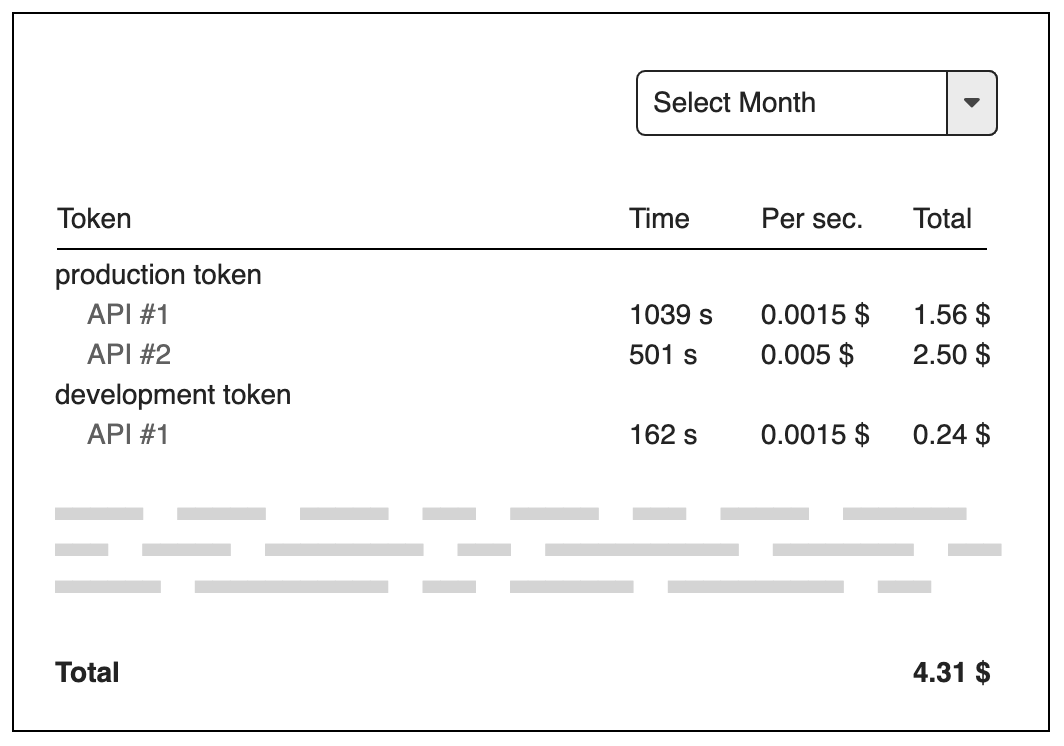
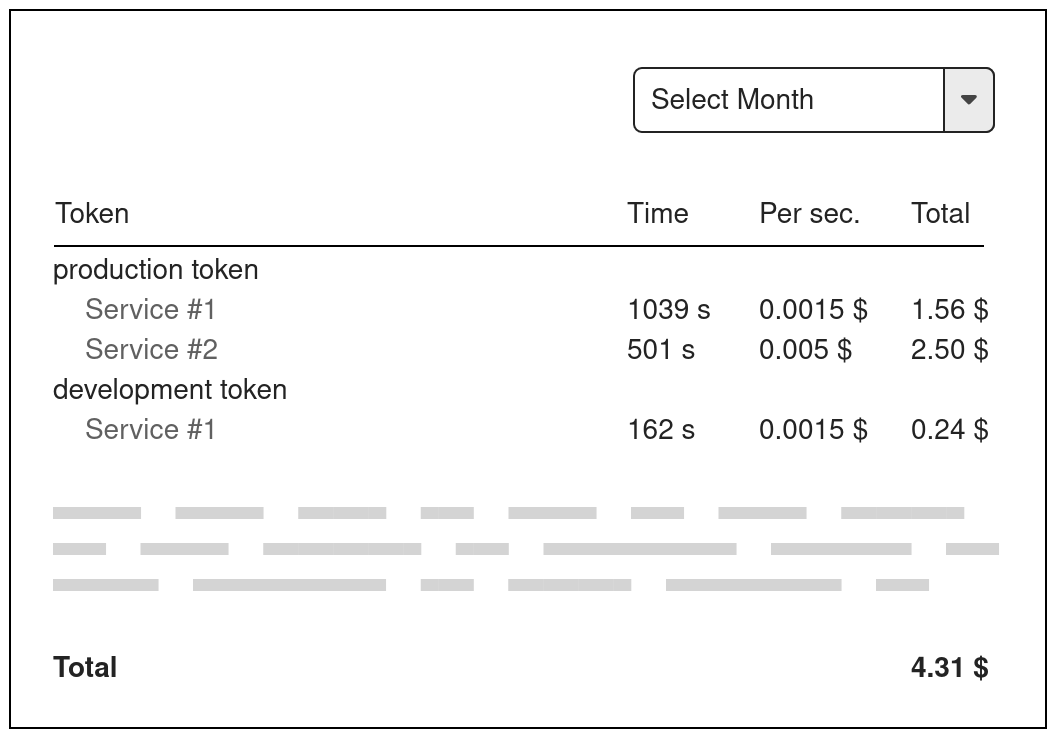
Implement pull request feedback

diff --git a/src/modules/module-b/description.md b/src/modules/module-b/description.md
@@ -1,6 +1,6 @@
 # Module B — Dynamic website with server-side rendering
 
-The goal of Module B is to create a server-side rendered websites which customers can use to manage
+The goal of Module B is to create a server-side rendered website which customers can use to manage
 their API usage and billing.
 It is possible to use additional libraries in the frontend for interactivity, but rendering must be
 performed by the server-side framework, and _not_ by a client-side framework calling an API.
@@ -15,7 +15,7 @@ As this website will be publicly exposed, it must implement the OWASP guidelines
 Module B will be assessed using the latest stable version of Google Chrome.
 Different security aspects will be tested.
 
-The design of the website is not important in this first iteraction.
+The design of the website is not important in this first iteration.
 The client will mostly focus on the functionality but some basic styling is expected to make
 it readable and usable.
 
@@ -27,13 +27,13 @@ The website should provide the following functionality.
 
 All other pages are protected and not accessible to non authenticated users.
 Login should be possible by providing a username and a password.
-As the first version is invitation only, it is not necessary to be able to register accounts.
+As the first version of the website will only allow users to sign up by invitation only, it is not necessary to be able to register accounts.
 
 However, please create the following accounts:
 - Username: `demo1`<br>Password: `skills2023d1`
 - Username: `demo2`<br>Password: `skills2023d2`
 
-The password has to be stored in a way that it is not reproducible in case someone gets access to the database.
+The password has to be stored in a secure way (hashed) in case someone gets access to the database.
 
 ### Workspaces
 
@@ -45,10 +45,10 @@ After login, the user is redirected to their list of workspaces.
 On that page, they can create or update workspaces.
 Users can only access and modify their own namespaces.
 
-For each workspace, they have the possibility to manage the API tokens, billing quotas, and bills. This additional functionality can also be provided in separate pages through links and does not have to be on the same page.
+For each workspace, they have the possibility to manage the API tokens, billing quotas, and bills. This additional functionality can also be provided on separate pages through links and does not have to be on the same page.
 
 A workspace has the following attributes:
-- A required **title** (max 100 characters)
+- A required **title** (max 100 characters, unique within the account)
 - An optional **description** of any length
 
 ### API Tokens
@@ -56,7 +56,7 @@ A workspace has the following attributes:
 For each workspace, it is possible to create one or more API tokens.
 All available tokens of a workspace are listed with their name and the creation date.
 
-The actual token is only shown once when it is created. It is not possible to view the token again after creation.
+The actual token is only revealed once when it is created. It is not possible to view the token again after creation.
 
 Each token can be revoked. If it is revoked, it cannot be used anymore.
 It is also not possible to activate a revoked token again.
@@ -70,7 +70,7 @@ A token has the following attributes:
 
 ### Billing Quotas
 
-It is possible to set and remove a billing quota per workspace.
+It is possible to set and remove a user-defined billing quota per workspace.
 Each call to the provided API costs a certain amount of money.
 If a billing quota is set, it defines the maximum amount that can be spent on API calls within the assigned workspace per calendar month.
 If the quota is exceeded, usage of the API is not possible anymore for all API tokens of this workspace.
@@ -85,14 +85,19 @@ A billing quota has the following attributes:
 ### Bills
 
 For each passed calendar month, a bill is generated and visible to the users.
-The bill contains the following data per API token and per accessed API:
-- Usage of the API for a specific API token in seconds
-- Cost of the API per second (static value per API)
-- Usage cost of the specific token and API
-- If a token did not access an API, that API should not be listed
+
+Each API token can access services that are exposed through an API.
+The user pays for using those services based on the time it takes to compute the result.
+Each service can cost a different amount of money per second.
+
+The bill contains the following data per API token and per accessed service which is exposed through an API:
+- Usage of the service for a specific API token in seconds
+- Cost of the service per second (static value per service)
+- Usage cost of the specific token and service
+- If a token did not access a service, that service should not be listed
 - If a token was not used at all, that token should not be listed
 
-A total row will also show the total cost over all API tokens and APIs.
+A total row will also show the total cost over all API tokens and services.
 The total costs are rounded to two decimal points for displaying purpose only.
 
 The client has provided the following example mockup to show their idea of a bill.
